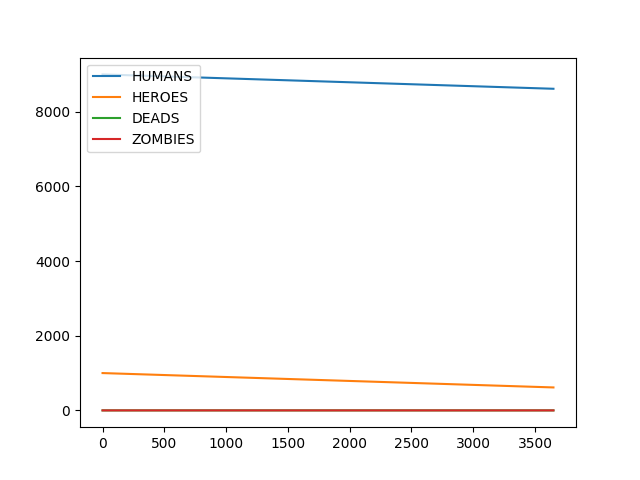
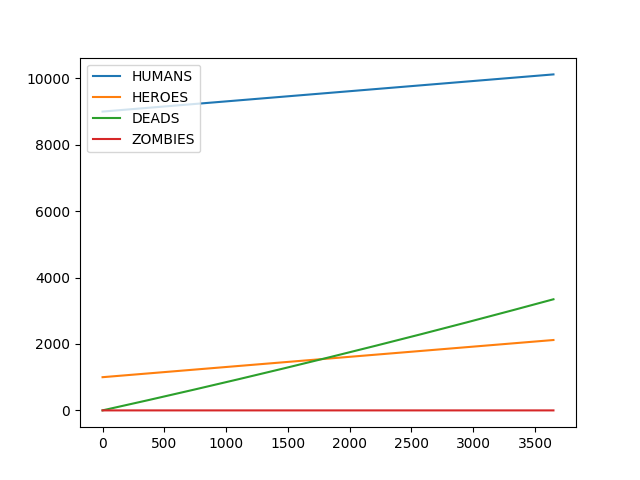
added idea of simulate_with_zombies_no_heroes

diff --git a/simulation.py b/simulation.py
@@ -6,41 +6,100 @@ HMN_CITIZENS = 9000
 HERO_CITIZENS = 1000
 
 SPECIES = {
-    "HUMANS": HMN_CITIZENS,  # common humans without any skills
+    "HUMANS": 0,  # common humans without any skills
 
-    "HEROES": HERO_CITIZENS,  # special humans, zombie killer
+    "HEROES": 0,  # special humans, zombie killer
 
     "DEADS": 0,  # just dead matter, no living-like thing
 
     "ZOMBIES": 0  # undead
 }
 
-DAY = 0
-
 
 def main():
     random.seed(1)
     duration = 3650
     simulate_normal(duration)
-    simulate(duration)
-
-
-def simulate(iterations: int):
-    global DAY
-    import random
-    SPECIES["ZOMBIES"] = 10
+    simulate_with_zombies_no_heroes(duration)
 
 
 def simulate_normal(iterations: int):
-    global DAY
-    import random
+    """
+        The simulation without zombies -> blank
+    """
+    SPECIES["HUMANS"] = HMN_CITIZENS
+    SPECIES["HEROES"] = HERO_CITIZENS
+    SPECIES["DEADS"] = 0
+    SPECIES["ZOMBIES"] = 0
+
     change = {"HUMANS": [], "HEROES": [], "DEADS": [], "ZOMBIES": []}
-    for i in range(iterations):
+    for day in range(iterations):
         population_growth()
-        DAY += 1
         for i in change:
             change[i].append(SPECIES[i])
     plot(change, "normal.png")
+
+
+def population_growth():
+    """
+        The daily growth of the population, independent to zombies
+
+        let's take city Bramsche with 10k citizens
+        https://www.deutschland123.de/bramsche-geburten -> 260 / a
+        https://www.deutschland123.de/bramsche-todesfaelle -> 301 / a -> 3.01% / a
+        https://www.deutschland123.de/bramsche-umz%C3%BCge-zu-und-fortz%C3%BCge -> (1779 - 1815) / a
+    """
+    growth = (260 + 1779 - 1815) / 365
+    SPECIES["DEADS"] += .0301 * (SPECIES["HUMANS"] + SPECIES["HEROES"]) / 365
+    SPECIES["HUMANS"] += growth / 2 * bool(SPECIES["HUMANS"])
+    SPECIES["HEROES"] += growth / 2 * bool(SPECIES["HEROES"])
+
+
+def simulate_with_zombies_no_heroes(iterations: int):
+    """
+        The simulation without heroes, so if all citizens were normal guys in a city with some zombies.
+    """
+    SPECIES["HUMANS"] = HMN_CITIZENS + HERO_CITIZENS
+    SPECIES["HEROES"] = 0
+    SPECIES["DEADS"] = 0
+    SPECIES["ZOMBIES"] = 10
+
+    change = {"HUMANS": [], "HEROES": [], "DEADS": [], "ZOMBIES": []}
+    tasks = [human_kills_zombie, zombie_transforms_human, human_kills_human]
+    for i in range(iterations):
+        population_growth()
+        for day in range(iterations):
+            random.shuffle(tasks)
+            for task in tasks:
+                task()
+
+        for i in change:
+            change[i].append(SPECIES[i])
+    plot(change, "zombified_no_heroes.png")
+
+
+def human_kills_zombie():
+    """
+        The change of zombies killed by humans.
+        This gets higher the more zombies exist.
+    """
+    pass
+
+
+def zombie_transforms_human():
+    """
+        The change of humans turned into zombies.
+        This gets higher the more zombies exist.
+    """
+    pass
+
+
+def human_kills_human():
+    """
+        The change of humans killed by humans.
+        This gets higher everyday because of the stress that changes the humans' minds.
+    """
+    pass
 
 
 def plot(species: dict, file: str):
@@ -50,18 +109,6 @@ def plot(species: dict, file: str):
     plt.legend(loc="upper left")
     plt.savefig(file)
     plt.clf()
-
-
-def population_growth():
-    """
-        let's take city Bramsche with 10k citizens
-        https://www.deutschland123.de/bramsche-geburten -> 260 / a
-        https://www.deutschland123.de/bramsche-todesfaelle -> -301
-        https://www.deutschland123.de/bramsche-umz%C3%BCge-zu-und-fortz%C3%BCge -> 1779 - 1815
-    """
-    growth = (260 - 301 + 1779 - 1815) / 365
-    SPECIES["HUMANS"] += growth / 2
-    SPECIES["HEROES"] += growth / 2
 
 
 if __name__ == '__main__':
